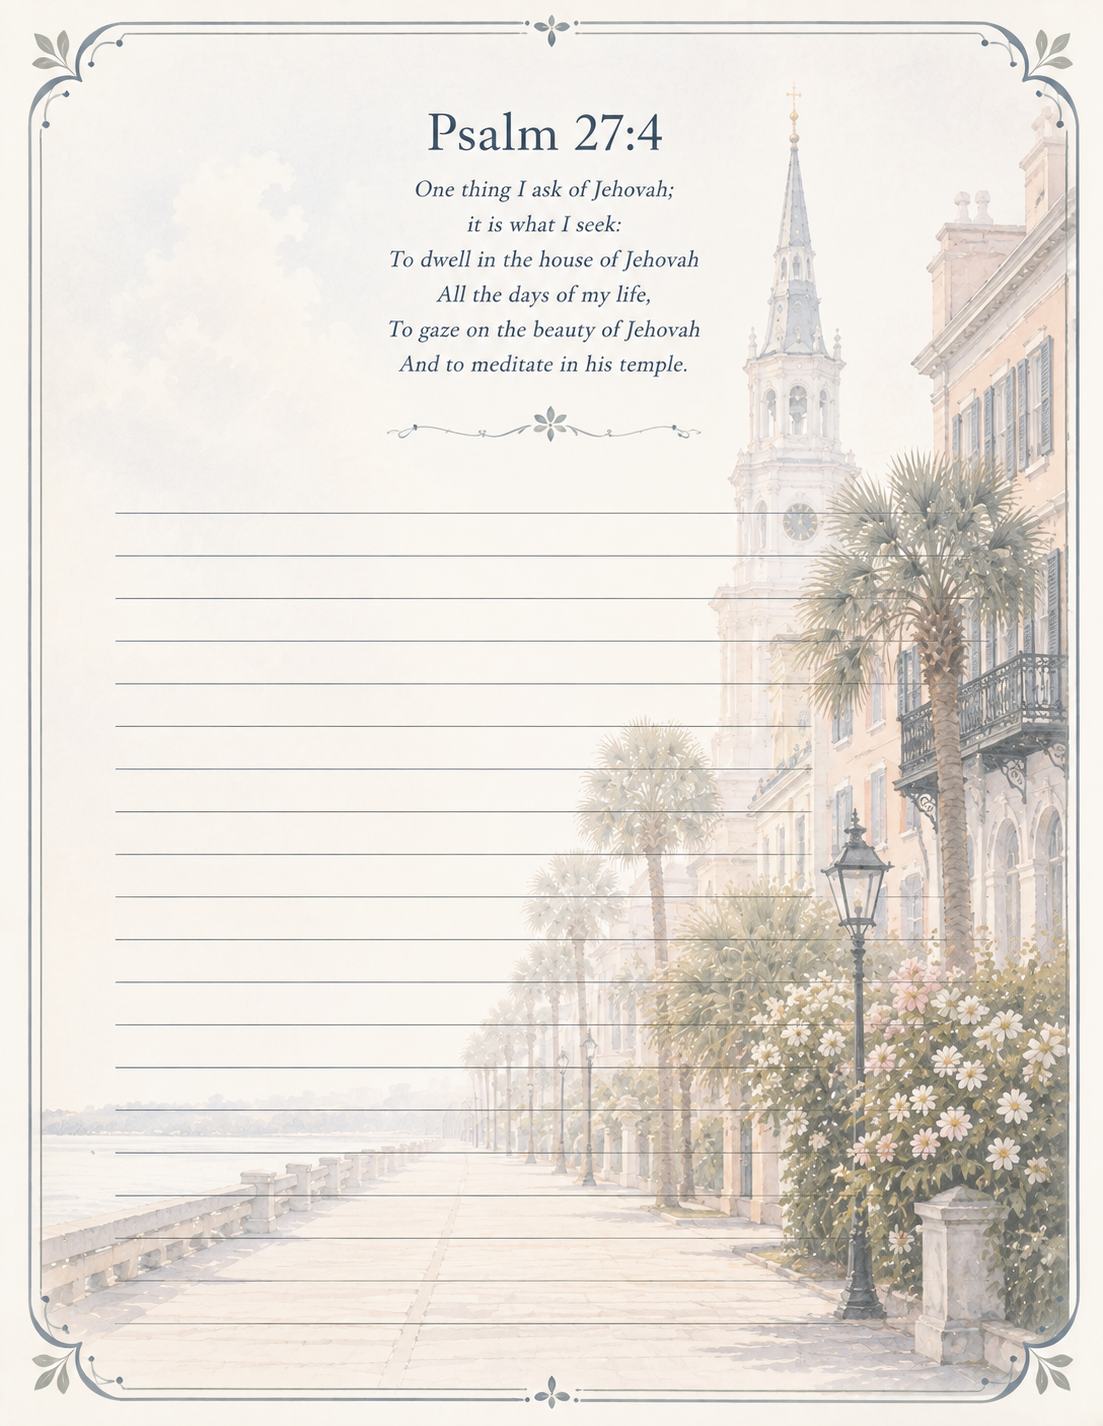
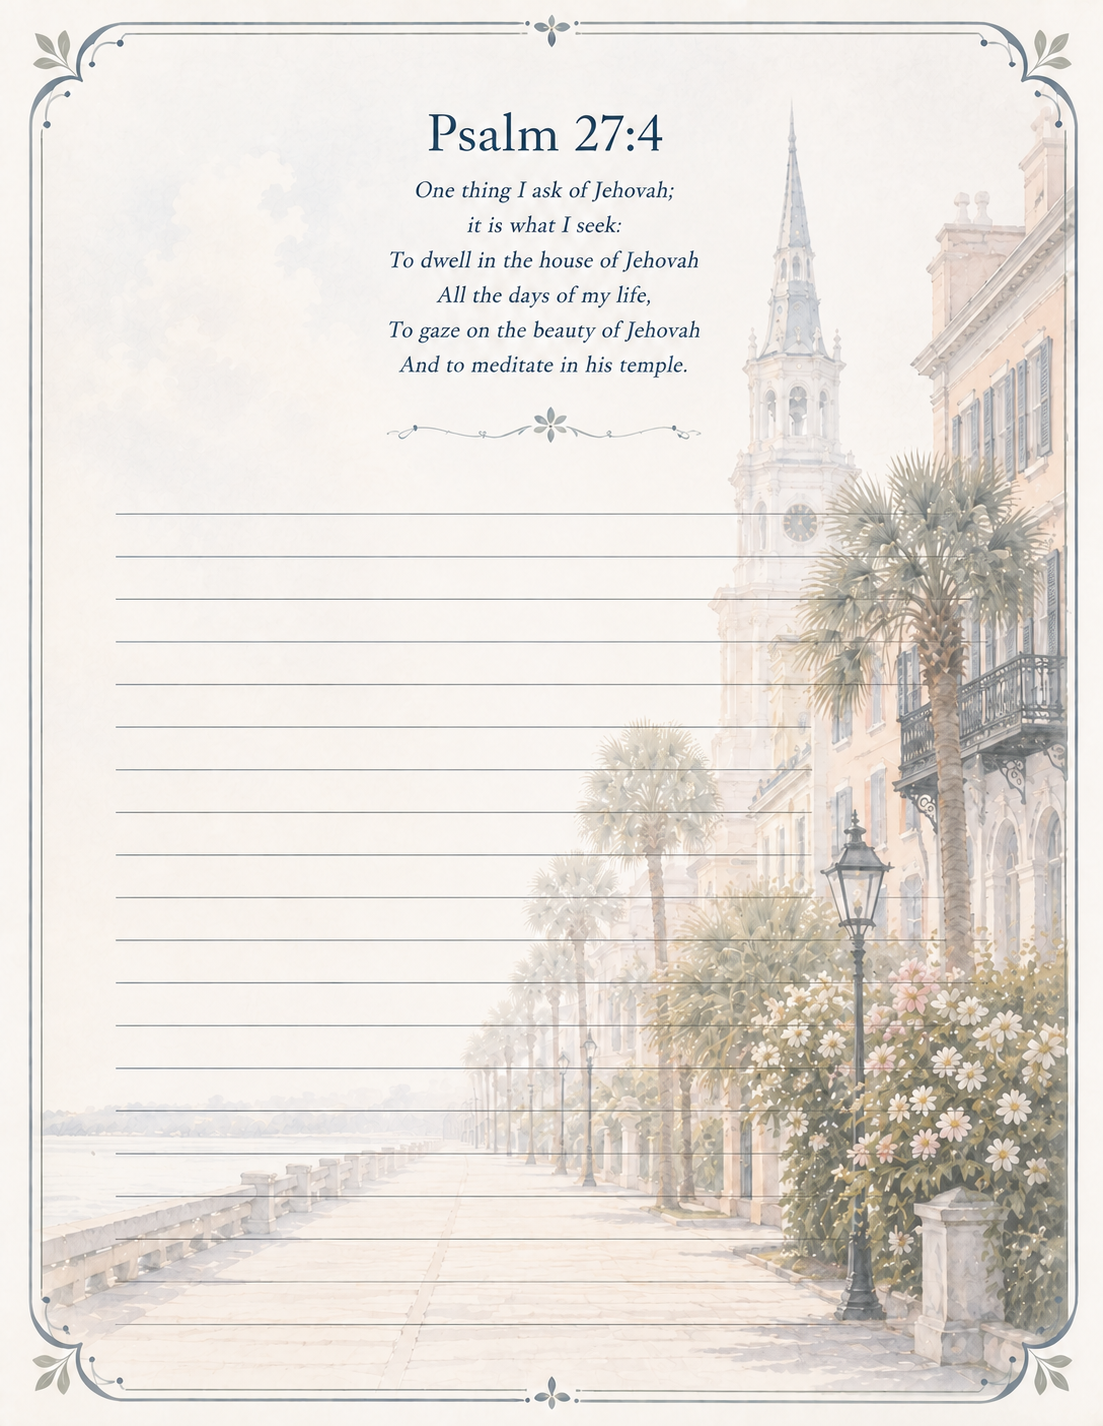
Fix downloads library and update Charleston View

diff --git a/index.html b/index.html
@@ -109,7 +109,7 @@ const update=()=>{const note=$('#livePaper'),hasScripture=state.scripture.trim()
     const productLabels={strawberry:'Strawberry Bow',floral:'Flower Garden',beach:'Seaside',mountain:'Mountain View',autumn:'Autumn',honeybee:'Honeybee Garden',mountainstream:'Mountain Stream',floralboho:'Floral Boho',guitar:'Musical Guitar',puppy:'Black and White Puppy',moonlit:'Moonlit Mountain',marsh:'Marsh View',charleston:'Charleston View',car:'Car',custom:'Your custom paper'};
     const showDownloadStatus=message=>{$('#downloadsStatus').textContent=message};
     async function openPaidDownload(product,customDesignId=''){if(isOwner&&product!=='custom'){await downloadPremadePdf(product);return}if(product==='custom'){showDownloadStatus('Preparing your saved custom PDF…');let query=db.from('saved_custom_designs').select('design').eq('user_id',activeUser.id);query=customDesignId?query.eq('id',customDesignId):query.order('created_at',{ascending:false}).limit(1);const {data,error}=await query.maybeSingle();if(error||!data){showDownloadStatus('Your saved custom paper is not available yet. Please contact Lowcountry Letters for help.');return}loadTemplate(data.design);$('#downloadButton').click();showDownloadStatus('Your custom PDF is being created.');return}showDownloadStatus('Preparing your secure PDF…');const {data,error}=await db.functions.invoke('paid-download',{body:{product_key:product}});if(error||!data?.url){showDownloadStatus('Your download is not connected yet. Please try again shortly.');return}window.open(data.url,'_blank','noopener');showDownloadStatus('Your PDF opened in a new tab.')}
-    async function loadMyDownloads(){const gallery=$('#downloadsGallery');gallery.innerHTML='';if(!activeUser){$('#downloadsIntro').textContent='Sign in before purchasing and your papers will stay here for you.';$('#downloadsSignIn').hidden=false;return}$('#downloadsSignIn').hidden=true;$('#downloadsIntro').textContent=isOwner?'Owner access: every Lowcountry Letters PDF is ready for you.':'Everything you have purchased is kept safely here.';let items=[];if(isOwner){items=['strawberry','floral','beach','mountain','autumn','honeybee','mountainstream','floralboho','guitar','puppy','moonlit','marsh','charleston','car'].map(product_key=>({product_key}));const {data:savedDesigns}=await db.from('saved_custom_designs').select('id').eq('user_id',activeUser.id).order('created_at',{ascending:false}).limit(1);if(renderVersion!==downloadsRenderVersion)return;if(savedDesigns?.length)items.push({product_key:'custom',custom_design_id:savedDesigns[0].id})}else{const {data,error}=await db.from('purchases').select('product_key,custom_design_id,purchased_at').eq('user_id',activeUser.id).order('purchased_at',{ascending:false});if(error){showDownloadStatus('Your library will appear as soon as payment setup is connected.');return}items=data||[]}if(renderVersion!==downloadsRenderVersion)return;items=[...new Map(items.map(item=>[(item.product_key||'')+'_'+(item.custom_design_id||''),item])).values()];if(!items.length){showDownloadStatus('Your purchases will appear here after checkout.');return}items.forEach(item=>{const key=item.product_key,card=document.createElement('article'),title=document.createElement('h3'),details=document.createElement('p'),button=document.createElement('button');card.className='template';title.textContent=productLabels[key]||'Lowcountry Letters PDF';details.textContent=key==='custom'?'Your saved custom paper':'Purchased PDF · available anytime';button.className='customize';button.textContent=key==='custom'?'Open saved paper':'Download PDF';button.addEventListener('click',()=>openPaidDownload(key,item.custom_design_id));card.append(title,details,button);gallery.append(card)})}
+    let downloadsRenderVersion=0;async function loadMyDownloads(){const renderVersion=++downloadsRenderVersion;const gallery=$('#downloadsGallery');gallery.innerHTML='';if(!activeUser){$('#downloadsIntro').textContent='Sign in before purchasing and your papers will stay here for you.';$('#downloadsSignIn').hidden=false;return}$('#downloadsSignIn').hidden=true;$('#downloadsIntro').textContent=isOwner?'Owner access: every Lowcountry Letters PDF is ready for you.':'Everything you have purchased is kept safely here.';let items=[];if(isOwner){items=['strawberry','floral','beach','mountain','autumn','honeybee','mountainstream','floralboho','guitar','puppy','moonlit','marsh','charleston','car'].map(product_key=>({product_key}));const {data:savedDesigns}=await db.from('saved_custom_designs').select('id').eq('user_id',activeUser.id).order('created_at',{ascending:false}).limit(1);if(renderVersion!==downloadsRenderVersion)return;if(savedDesigns?.length)items.push({product_key:'custom',custom_design_id:savedDesigns[0].id})}else{const {data,error}=await db.from('purchases').select('product_key,custom_design_id,purchased_at').eq('user_id',activeUser.id).order('purchased_at',{ascending:false});if(error){showDownloadStatus('Your library will appear as soon as payment setup is connected.');return}items=data||[]}if(renderVersion!==downloadsRenderVersion)return;items=[...new Map(items.map(item=>[(item.product_key||'')+'_'+(item.custom_design_id||''),item])).values()];if(!items.length){showDownloadStatus('Your purchases will appear here after checkout.');return}items.forEach(item=>{const key=item.product_key,card=document.createElement('article'),title=document.createElement('h3'),details=document.createElement('p'),button=document.createElement('button');card.className='template';title.textContent=productLabels[key]||'Lowcountry Letters PDF';details.textContent=key==='custom'?'Your saved custom paper':'Purchased PDF · available anytime';button.className='customize';button.textContent=key==='custom'?'Open saved paper':'Download PDF';button.addEventListener('click',()=>openPaidDownload(key,item.custom_design_id));card.append(title,details,button);gallery.append(card)})}
     async function loadOwnerState(){isOwner=false;if(activeUser&&db){const {data}=await db.from('profiles').select('is_owner').eq('id',activeUser.id).maybeSingle();isOwner=Boolean(data?.is_owner)}updateAccount();updatePurchaseButtons();loadMyDownloads()}
     $$('.print-premade').forEach(button=>button.addEventListener('click',()=>{if(isOwner){downloadPremadePdf(button.dataset.paper).catch(()=>alert('Could not create this PDF. Please refresh and try again.'));return}goToCheckout(button.dataset.paper)}));
     async function saveCustomDesign(){const {data:{session}}=await db.auth.getSession(),currentUser=session?.user;if(!currentUser)throw new Error('Please sign in again before saving your paper.');activeUser=currentUser;const design={template:state.title,sub:state.subtitle,paper:state.paper,accent:state.accent,decor:state.decor,scripture:state.scripture,reference:state.reference,position:state.position,scriptureFont:state.scriptureFont,art:state.art,artX:state.artX,artY:state.artY,artSize:state.artSize,artLayer:state.artLayer};const {data,error}=await db.from('saved_custom_designs').insert({user_id:currentUser.id,design}).select('id').single();if(error)throw error;return data.id}
